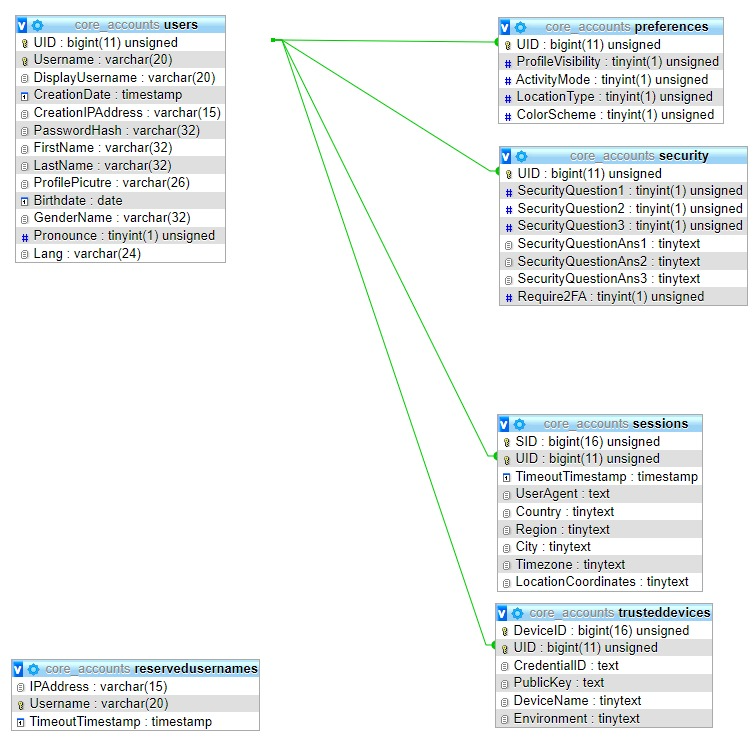
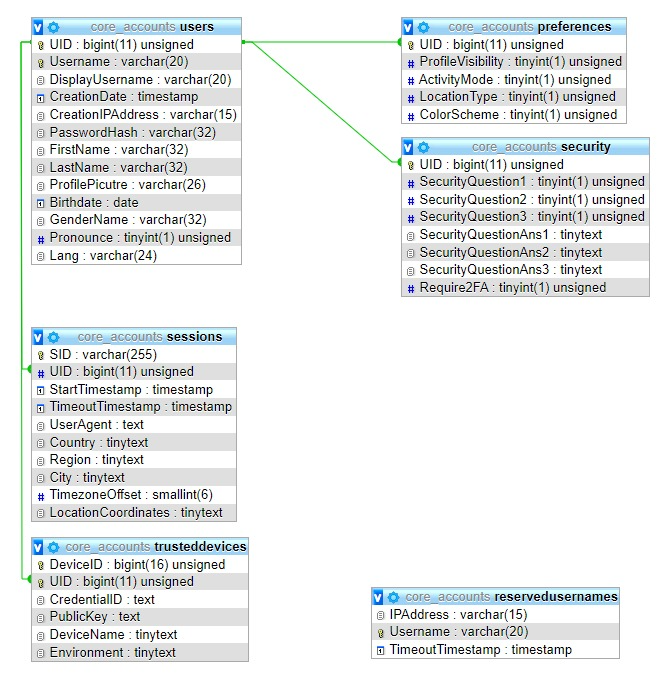
Collect more data on session creation

diff --git a/src/pages/user/login/password.jsx b/src/pages/user/login/password.jsx
@@ -77,7 +77,11 @@ export default function LoginPassword(props){
                                     if(error){
                                         setError();
                                     }else{
-                                        signInPOST(loginData.username, hash(data[0] + passwordInput.value + data[1]), function(isSuccessful, data){
+                                        signInPOST({
+                                            username: loginData.username,
+                                            passwordHash: hash(data[0] + passwordInput.value + data[1]),
+                                            timezoneOffset: (new Date()).getTimezoneOffset()
+                                        }, function(isSuccessful, data){
                                             if(isSuccessful){
                                                 isDone(data);
                                             }else{

diff --git a/src/assets/scripts/communication/accounts.jsx b/src/assets/scripts/communication/accounts.jsx
@@ -30,11 +30,8 @@ async function jsonPOST(url, json){
     });
 }
 
-export function signInPOST(username, password, callback){
-    jsonPOST("/APIs/accounts/core/login.json.php", {
-        username: username,
-        passwordHash: password
-    }).then(function(data){
+export function signInPOST(data, callback){
+    jsonPOST("/APIs/accounts/core/login.json.php", data).then(function(data){
         callback(data.responseInfo.successful, data);
     }).catch(function(error){
         callback(false, undefined);

diff --git a/public/APIs/accounts/core/register.json.php b/public/APIs/accounts/core/register.json.php
@@ -28,63 +28,66 @@ checkInputData(
     [$INPUT_DATA->agreement, "boolean"]
 );
 
-// Check data
-if($INPUT_DATA->agreement){
-    // Only do more checks on public data
-    require './../../tools/tool.dates.php';
-    $birthdateStr = $INPUT_DATA->birthdate->year."-".$INPUT_DATA->birthdate->month."-".$INPUT_DATA->birthdate->day; // "year-month-day"
-    if(!validateDate($birthdateStr)){
-        $RESPONSE_SUCCESS_STATUS = false;
-        $RESPONSE_TEXT = "Invalid birth date!";
-        $RESPONSE_CODE = INVALID_DATA;
-    }else if($INPUT_DATA->birthdate->year < ($DATE_currentYear - 120) || $INPUT_DATA->birthdate->year > $DATE_currentYear){
-        $RESPONSE_SUCCESS_STATUS = false;
-        $RESPONSE_TEXT = "Invalid birth year!";
-        $RESPONSE_CODE = INVALID_DATA;
-    }else if(dateDiffY($birthdateStr, $DATE_current) < 13){
-        $RESPONSE_SUCCESS_STATUS = false;
-        $RESPONSE_TEXT = "Must be 13+ years old to register!";
-        $RESPONSE_CODE = BLOCKED_DATA;
-    }else if($INPUT_DATA->gender[strlen($INPUT_DATA->gender) - 1] == " " || $INPUT_DATA->gender[0] == " " || strpos($INPUT_DATA->gender, "  ") !== false){
-        $RESPONSE_SUCCESS_STATUS = false;
-        $RESPONSE_TEXT = "Gender can't start or end with whitespace or contain consecutive whitespaces!";
-        $RESPONSE_CODE = INVALID_DATA;
+// Check if there is an active session
+if(!(function_exists("CLIENT_isSessionValid")))
+    require './../../tools/client.info.php';
+if(!(CLIENT_isSessionValid())){
+    // Check data
+    if($INPUT_DATA->agreement){
+        // Only do more checks on public data
+        require './../../tools/tool.dates.php';
+        $birthdateStr = $INPUT_DATA->birthdate->year."-".$INPUT_DATA->birthdate->month."-".$INPUT_DATA->birthdate->day; // "year-month-day"
+        if(!validateDate($birthdateStr)){
+            $RESPONSE_SUCCESS_STATUS = false;
+            $RESPONSE_TEXT = "Invalid birth date!";
+            $RESPONSE_CODE = INVALID_DATA;
+        }else if($INPUT_DATA->birthdate->year < ($DATE_currentYear - 120) || $INPUT_DATA->birthdate->year > $DATE_currentYear){
+            $RESPONSE_SUCCESS_STATUS = false;
+            $RESPONSE_TEXT = "Invalid birth year!";
+            $RESPONSE_CODE = INVALID_DATA;
+        }else if(dateDiffY($birthdateStr, $DATE_current) < 13){
+            $RESPONSE_SUCCESS_STATUS = false;
+            $RESPONSE_TEXT = "Must be 13+ years old to register!";
+            $RESPONSE_CODE = BLOCKED_DATA;
+        }else if($INPUT_DATA->gender[strlen($INPUT_DATA->gender) - 1] == " " || $INPUT_DATA->gender[0] == " " || strpos($INPUT_DATA->gender, "  ") !== false){
+            $RESPONSE_SUCCESS_STATUS = false;
+            $RESPONSE_TEXT = "Gender can't start or end with whitespace or contain consecutive whitespaces!";
+            $RESPONSE_CODE = INVALID_DATA;
+        }else{
+            require './../../tools/filter.reserved.php';
+            if(!($RESERVE_FILTER__status)){
+                responseReport(BACKEND_ERROR, "Couldn't load reserved usernames list!");
+            }
+            require './../../tools/sql.username.php';
+            require './../../tools/sql.register.php';
+    
+            if(checkUsernameRS($INPUT_DATA->username)){
+                $RESPONSE_SUCCESS_STATUS = false;
+                $RESPONSE_TEXT = "Username reserved by the system!";
+                $RESPONSE_CODE = BLOCKED_DATA;
+            }else if(usernameExists($INPUT_DATA->username)){
+                $RESPONSE_SUCCESS_STATUS = false;
+                $RESPONSE_TEXT = "Username in-use!";
+                $RESPONSE_CODE = BLOCKED_DATA;
+            }else if(usernameOnCooldown($INPUT_DATA->username)){
+                $RESPONSE_SUCCESS_STATUS = false;
+                $RESPONSE_TEXT = "Username on cooldown!";
+                $RESPONSE_CODE = BLOCKED_DATA;
+            }else if(!(registerUser($INPUT_DATA))){ // User input seems fine, attempt to register the user
+                $RESPONSE_SUCCESS_STATUS = false;
+                $RESPONSE_TEXT = "Couldn't register user!";
+                $RESPONSE_CODE = BACKEND_ERROR;
+            }
+        }
     }else{
-        require './../../tools/filter.reserved.php';
-        if(!($RESERVE_FILTER__status)){
-            responseReport(BACKEND_ERROR, "Couldn't load reserved usernames list!");
-        }
-        require './../../tools/sql.username.php';
-        require './../../tools/sql.register.php';
-        if(!function_exists("CLIENT_isSessionValid"))
-            require './../../tools/client.info.php';
-
-        if(checkUsernameRS($INPUT_DATA->username)){
-            $RESPONSE_SUCCESS_STATUS = false;
-            $RESPONSE_TEXT = "Username reserved by the system!";
-            $RESPONSE_CODE = BLOCKED_DATA;
-        }else if(usernameExists($INPUT_DATA->username)){
-            $RESPONSE_SUCCESS_STATUS = false;
-            $RESPONSE_TEXT = "Username in-use!";
-            $RESPONSE_CODE = BLOCKED_DATA;
-        }else if(usernameOnCooldown($INPUT_DATA->username)){
-            $RESPONSE_SUCCESS_STATUS = false;
-            $RESPONSE_TEXT = "Username on cooldown!";
-            $RESPONSE_CODE = BLOCKED_DATA;
-        }else if(CLIENT_isSessionValid()){ // Check if there is an active session
-            $RESPONSE_SUCCESS_STATUS = false;
-            $RESPONSE_TEXT = "Can't register users on devices with active sessions!";
-            $RESPONSE_CODE = BLOCKED_REQUEST;
-        }else if(!(registerUser($INPUT_DATA))){ // User input seems fine, attempt to register the user
-            $RESPONSE_SUCCESS_STATUS = false;
-            $RESPONSE_TEXT = "Couldn't register user!";
-            $RESPONSE_CODE = BACKEND_ERROR;
-        }
+        $RESPONSE_SUCCESS_STATUS = false;
+        $RESPONSE_TEXT = "Missing user agreement!";
+        $RESPONSE_CODE = MISSING_DATA;
     }
 }else{
     $RESPONSE_SUCCESS_STATUS = false;
-    $RESPONSE_TEXT = "Missing user agreement!";
-    $RESPONSE_CODE = MISSING_DATA;
+    $RESPONSE_TEXT = "Can't register users on devices with active sessions!";
+    $RESPONSE_CODE = BLOCKED_REQUEST;
 }
 
 ?>

diff --git a/public/APIs/tools/sql.sessions.php b/public/APIs/tools/sql.sessions.php
@@ -3,6 +3,9 @@
 if(!function_exists("connectMySQL"))
     require 'sql.database.php';
 
+if(!function_exists("CLIENT_isSessionValid"))
+    require 'client.info.php';
+
 // Start session
 session_start();
 
@@ -22,7 +25,7 @@ function removeSession(){
 function createSessionID($connection){
     global $DATABASE_CoreTABLE__sessions;
     require 'tool.strings.php';
-    $PlannedSID = randomString(128);
+    $PlannedSID = randomString(255);
     $result = executeQueryMySQL($connection, "SELECT 1 FROM $DATABASE_CoreTABLE__sessions WHERE `SID` = '$PlannedSID'");
     if((mysqli_fetch_assoc($result)[1]) == 1){
         unset($PlannedSID);
@@ -33,18 +36,29 @@ function createSessionID($connection){
 }
 
 // Add a session
-function addSession($UID){
-    global $DATABASE_CoreTABLE__sessions;
+function addSession($UID, $input){
+    global $DATABASE_CoreTABLE__sessions, $CLIENT_IPAddress;
     $connection = connectMySQL(DATABASE_WRITE_ONLY);
+    // Prepare session data
     $SID = createSessionID($connection);
-    $TimeoutTimestamp = date('Y-m-d H:i:s', time() + 60*60*24*16); // Hmm, timezones...
+    $TimezoneOffset = $input->timezoneOffset;
+    $TimeoutTimestamp = date('Y-m-d H:i:s', time() + 60*60*24*16);
     $UserAgent = mysqli_real_escape_string($connection, $_SERVER['HTTP_USER_AGENT']);
-    // Remove session
+    // Get user's location data
+    require 'tool.location.php';
+    $locData = getLocationFromIP($CLIENT_IPAddress);
+    $Country = mysqli_real_escape_string($connection, $locData->country);
+    $Region = mysqli_real_escape_string($connection, $locData->region);
+    $City = mysqli_real_escape_string($connection, $locData->city);
+    $LocationCoordinates = mysqli_real_escape_string($connection, $locData->loc);
+    // Insert session into DB
     executeQueryMySQL($connection,
             "INSERT INTO `$DATABASE_CoreTABLE__sessions`
-                (`SID`,  `UID`, `TimeoutTimestamp`,  `UserAgent`,  `Country`, `Region`, `City`, `Timezone`, `LocationCoordinates`)
+                (`SID`,  `UID`, `TimeoutTimestamp`,  `UserAgent`,  `TimezoneOffset`, `Country`,
+                `Region`,  `City`,  `LocationCoordinates`)
             VALUES
-                ('$SID', $UID,  '$TimeoutTimestamp', '$UserAgent', '2', '3', '4', '5', '6')"
+                ('$SID', $UID,  '$TimeoutTimestamp', '$UserAgent', $TimezoneOffset,  '$Country',
+                '$Region', '$City', '$LocationCoordinates')"
             );
     $connection->close();
     return $SID;

diff --git a/public/APIs/accounts/core/login.json.php b/public/APIs/accounts/core/login.json.php
@@ -9,7 +9,8 @@ session_start();
 // Do a basic check for the input data!
 checkInputData(
     [$INPUT_DATA->username, "string", false, "/^[A-Za-z0-9_]{3,20}$/", "/[a-zA-Z]/"],
-    [$INPUT_DATA->passwordHash, "string", false, "/^[a-z0-9]{32}$/"]
+    [$INPUT_DATA->passwordHash, "string", false, "/^[a-z0-9]{32}$/"],
+    [$INPUT_DATA->timezoneOffset, "integer"]
 );
 
 // Connect to the database
@@ -19,19 +20,27 @@ require './../../tools/sql.login.php';
 require './../../tools/client.info.php';
 
 if(!(CLIENT_isSessionValid())){
-    // Check if the username and password match
-    $result = signInStage1($INPUT_DATA);
-    if($result->validUser){
-        if($result->require2FA){
-            $RESPONSE_SUCCESS_STATUS = false;
-            $RESPONSE_TEXT = "Backend does not support 2FA yet!";
-            $RESPONSE_CODE = TEMPORARY;
-        }else{
-            // The user is good to go, initialise a new session!
-            if(!function_exists("removeSession"))
-                require './../../tools/sql.sessions.php';
-            $SID = addSession($result->UID);
-            $_SESSION["SID"] = $SID;
+    // Validate extra data
+    if($INPUT_DATA->timezoneOffset > 32767 || $INPUT_DATA->timezoneOffset < -32768){
+        $RESPONSE_SUCCESS_STATUS = false;
+        $RESPONSE_TEXT = "Timezone offset exceeded expected range!";
+        $RESPONSE_CODE = INVALID_DATA;
+    }else{
+        // Check if the username and password match
+        $result = signInStage1($INPUT_DATA);
+        if($result->validUser){
+            if($result->require2FA){
+                $RESPONSE_SUCCESS_STATUS = false;
+                $RESPONSE_TEXT = "Backend does not support 2FA yet!";
+                $RESPONSE_CODE = TEMPORARY;
+            }else{
+                // The user is good to go, initialise a new session!
+                if(!function_exists("removeSession"))
+                    require './../../tools/sql.sessions.php';
+                // Create a session
+                $SID = addSession($result->UID, $INPUT_DATA);
+                $_SESSION["SID"] = $SID;
+            }
         }
     }
 }else{

diff --git a/public/APIs/tools/sql.username.php b/public/APIs/tools/sql.username.php
@@ -3,6 +3,9 @@
 if(!function_exists("connectMySQL"))
     require 'sql.database.php';
 
+if(!function_exists("CLIENT_isSessionValid"))
+    require 'client.info.php';
+
 // Check if the username already exists in the database as an ID
 function usernameExists($username){
     $connection = connectMySQL(DATABASE_READ_ONLY);
@@ -33,10 +36,8 @@ function getDisplayUsername($username){
 //   true.
 // - Should the username be locked to the current IP address, return false
 function usernameOnCooldown($username, $ignoreIP = false){
-    global $DATABASE_CoreTABLE__reservedUsernames;
+    global $DATABASE_CoreTABLE__reservedUsernames, $CLIENT_IPAddress;
     $connection = connectMySQL(DATABASE_READ_ONLY);
-    if(!function_exists("CLIENT_isSessionValid"))
-        require 'client.info.php';
     $Username = mysqli_real_escape_string($connection, strtolower($username));
     $result = executeQueryMySQL($connection, "SELECT `IPAddress`, `TimeoutTimestamp` FROM $DATABASE_CoreTABLE__reservedUsernames WHERE `Username` = '$Username'");
     if($result){
@@ -63,10 +64,8 @@ function usernameOnCooldown($username, $ignoreIP = false){
 // - Should an account be created using the current IP address, drop all locked usernames
 //   attached to said IP address.
 function cooldownUsername($username){
-    global $DATABASE_CoreTABLE__reservedUsernames;
+    global $DATABASE_CoreTABLE__reservedUsernames, $CLIENT_IPAddress;
     $connection = connectMySQL(DATABASE_READ_AND_WRITE);
-    if(!function_exists("CLIENT_isSessionValid"))
-        require 'client.info.php';
 
     // First remove all previously cooldowned usernames!
     executeQueryMySQL($connection, "DELETE FROM $DATABASE_CoreTABLE__reservedUsernames WHERE `IPAddress` = '$CLIENT_IPAddress'");

diff --git a/public/APIs/tools/tool.location.php b/public/APIs/tools/tool.location.php
@@ -1,0 +1,31 @@
+<?php
+
+function getLocationFromIP($IPAddress){
+    $return = (object)array(
+        "city"     => "Unknown",
+        "region"   => "Unknown",
+        "country"  => "??",
+        "loc"      => "0,0"
+    );
+
+    // Get location info from external server
+    $response = file_get_contents("http://ipinfo.io/{$IPAddress}/json");
+    if($response != false){
+        $response = json_decode($response);
+        // Only keep the needed data
+        if(isset($response->city))
+            $return->city     = $response->city;
+        if(isset($response->region))
+            $return->region   = $response->region;
+        if(isset($response->country))
+            $return->country  = $response->country;
+        if(isset($response->loc))
+            $return->loc      = $response->loc;
+        unset($response);
+    }else{
+        responseReport(BACKEND_ERROR, "Couldn't detect user's location");
+    }
+    return $return;
+}
+
+?>

diff --git a/public/APIs/tools/sql.register.php b/public/APIs/tools/sql.register.php
@@ -8,7 +8,7 @@ if(!function_exists("connectMySQL"))
 function registerUser($input){
     global $DATABASE_CoreTABLE__preferences, $DATABASE_CoreTABLE__security,
         $DATABASE_CoreTABLE__users, $DATABASE_CoreTABLE__reservedUsernames,
-        $DATABASE_secretSault1, $DATABASE_secretSault2;
+        $DATABASE_secretSault1, $DATABASE_secretSault2, $CLIENT_IPAddress;
     $connection = connectMySQL(DATABASE_READ_AND_WRITE);
 
     // Prevent SQL injections
